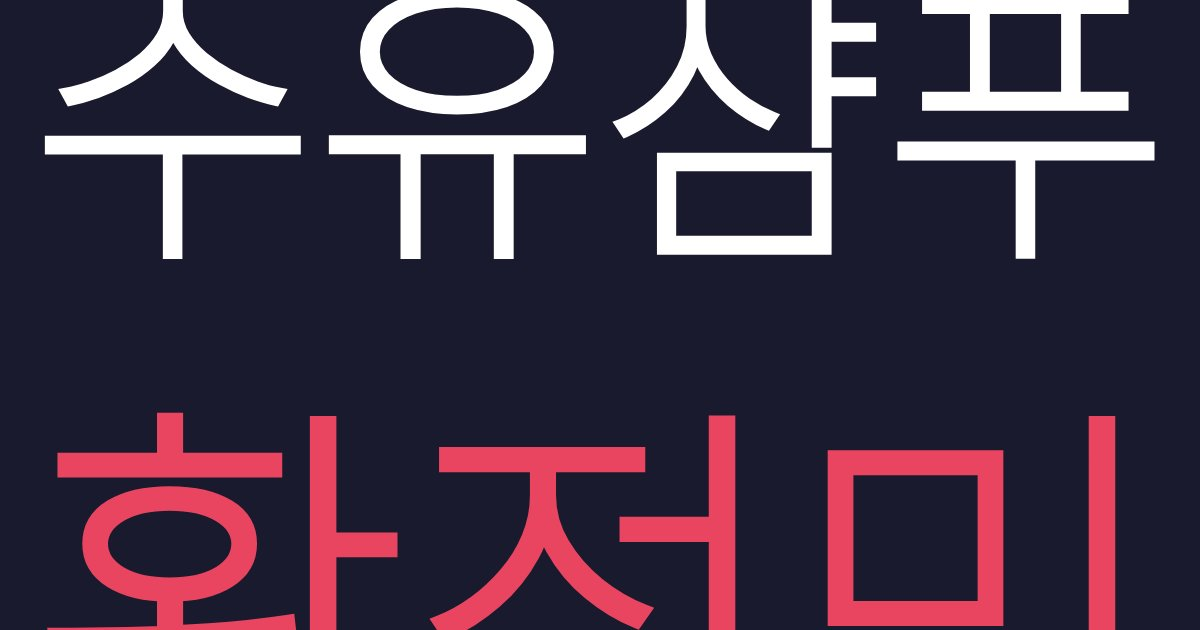
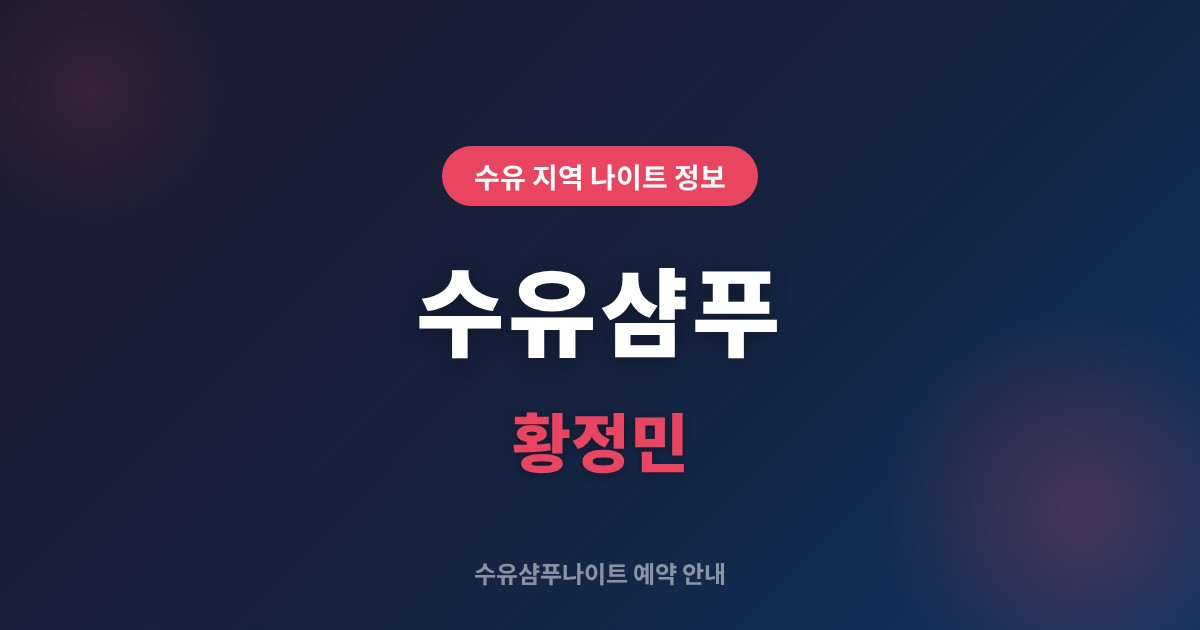
Update OG thumbnail with visible 수유샴푸 황정민 text for Naver

diff --git a/og/preview.html b/og/preview.html
@@ -1,39 +1,94 @@
 <!DOCTYPE html>
 <html>
 <head>
-    <title>Suyu Shampoo Night Preview</title>
+    <meta charset="utf-8">
+    <title>OG Image Preview - 1200x630</title>
     <style>
-        body { margin: 0; padding: 20px; background: #222; }
-        .preview {
-            width: 600px;
-            height: 600px;
-            background: linear-gradient(to bottom, #1a1a2e, #16213e);
+        @font-face {
+            font-family: 'Noto Sans KR';
+            src: url('/home/user/.fonts/NotoSansKR.ttf') format('truetype');
+            font-weight: 100 900;
+        }
+        body { margin: 0; padding: 40px; background: #222; }
+        .og {
+            width: 1200px;
+            height: 630px;
+            background: linear-gradient(135deg, #1a1a2e 0%, #16213e 50%, #0f3460 100%);
             display: flex;
             flex-direction: column;
             align-items: center;
             justify-content: center;
-            border-radius: 8px;
-            box-shadow: 0 8px 32px rgba(0, 0, 0, 0.5);
-            font-family: -apple-system, BlinkMacSystemFont, "Segoe UI", sans-serif;
+            font-family: 'Noto Sans KR', sans-serif;
             color: white;
+            position: relative;
+            overflow: hidden;
+        }
+        .og::before {
+            content: '';
+            position: absolute;
+            bottom: -80px;
+            right: -80px;
+            width: 400px;
+            height: 400px;
+            background: radial-gradient(circle, rgba(233,69,96,0.25) 0%, transparent 70%);
+            border-radius: 50%;
+        }
+        .og::after {
+            content: '';
+            position: absolute;
+            top: -60px;
+            left: -60px;
+            width: 300px;
+            height: 300px;
+            background: radial-gradient(circle, rgba(233,69,96,0.15) 0%, transparent 70%);
+            border-radius: 50%;
+        }
+        .badge {
+            background: #e94560;
+            color: #fff;
+            font-size: 28px;
+            font-weight: 700;
+            padding: 10px 32px;
+            border-radius: 30px;
+            margin-bottom: 32px;
+            position: relative;
+            z-index: 1;
         }
         .main-text {
-            font-size: 64px;
-            font-weight: bold;
-            margin-bottom: 20px;
+            font-size: 96px;
+            font-weight: 900;
+            letter-spacing: 4px;
             text-align: center;
+            position: relative;
+            z-index: 1;
+            text-shadow: 0 4px 20px rgba(0,0,0,0.3);
         }
         .sub-text {
-            font-size: 24px;
+            font-size: 64px;
+            font-weight: 900;
             text-align: center;
-            opacity: 0.9;
+            margin-top: 16px;
+            color: #e94560;
+            position: relative;
+            z-index: 1;
+            text-shadow: 0 2px 10px rgba(0,0,0,0.3);
+        }
+        .bottom-text {
+            position: absolute;
+            bottom: 40px;
+            font-size: 24px;
+            font-weight: 700;
+            color: rgba(255,255,255,0.5);
+            z-index: 1;
         }
     </style>
 </head>
 <body>
-    <div class="preview">
-        <div class="main-text">수유샴푸나이트</div>
-        <div class="sub-text">수유 지역 나이트클럽 안내</div>
+    <div class="og">
+        <div class="badge">수유 지역 나이트 정보</div>
+        <div class="main-text">수유샴푸</div>
+        <div class="sub-text">황정민</div>
+        <div class="bottom-text">수유샴푸나이트 예약 안내</div>
     </div>
 </body>
 </html>
